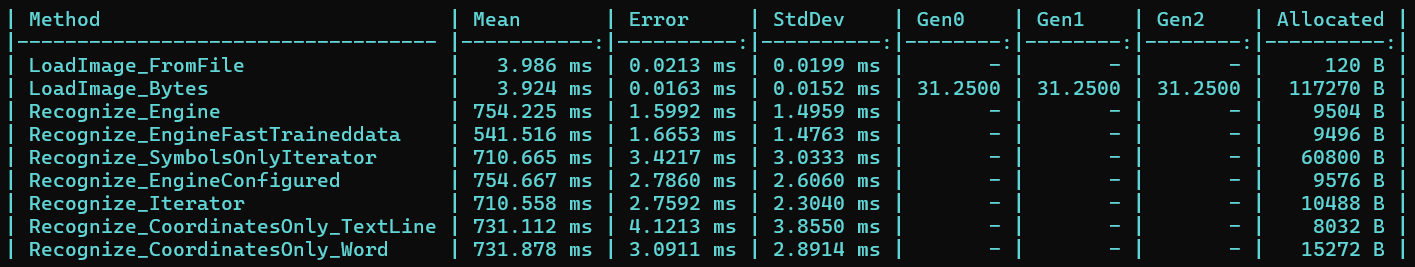
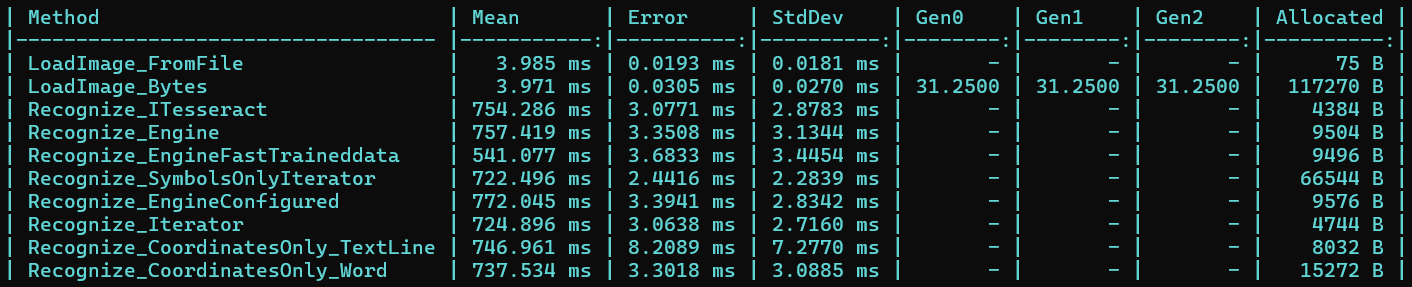
Add Recognize_ITesseract

diff --git a/Benchmarks.cs b/Benchmarks.cs
@@ -6,6 +6,7 @@ using TesseractOcrMaui;
 using TesseractOcrMaui.Enums;
 using TesseractOcrMaui.Imaging;
 using TesseractOcrMaui.Iterables;
+using TesseractOcrMaui.Results;
 using TesseractOcrMaui.Tessdata;
 
 #nullable enable
@@ -33,7 +34,6 @@ public class Benchmarks
 
 
 
-
     [Benchmark]
     public void LoadImage_FromFile()
     {
@@ -45,6 +45,24 @@ public class Benchmarks
     {
         byte[] bytes = File.ReadAllBytes(_imagePath);
         using var image = Pix.LoadFromMemory(bytes);
+    }
+
+
+    [Benchmark]
+    public string Recognize_ITesseract()
+    {
+        var tess = new Tesseract(_provider, null);
+        var result = tess.RecognizeText(_preloadedImage);
+        if (result.NotSuccess())
+        {
+            throw new Exception("", result.Exception);
+        }
+        if (result.RecognisedText is null)
+        {
+            throw new Exception("Text null");
+        }
+
+        return result.RecognisedText;
     }
 
 

diff --git a/Program.cs b/Program.cs
@@ -17,7 +17,8 @@ bench.Setup();
 //string text = bench.Recognize();
 //string text2 = bench.RecognizeWithEngine();
 //string text3 = bench.RecognizeConfigured();
-//Console.WriteLine(text3);
+//var text4 = bench.Recognize_ITesseract();
+//Console.WriteLine(text4);
 //var paramBench = new Benchmarks_Parametherized();
 //paramBench.Setup();
 //string result1 = paramBench.Recognize_Scaled(1);
@@ -25,7 +26,6 @@ bench.Setup();
 //string result3 = paramBench.Recognize_Scaled(0.75);
 //string result4 = paramBench.Recognize_Scaled(0.65);
 //string result5 = paramBench.Recognize_Scaled(0.5);
-
 
 string folder = Directory.GetCurrentDirectory();
 var config = DefaultConfig.Instance.WithArtifactsPath(Path.Combine(folder, "results"));
